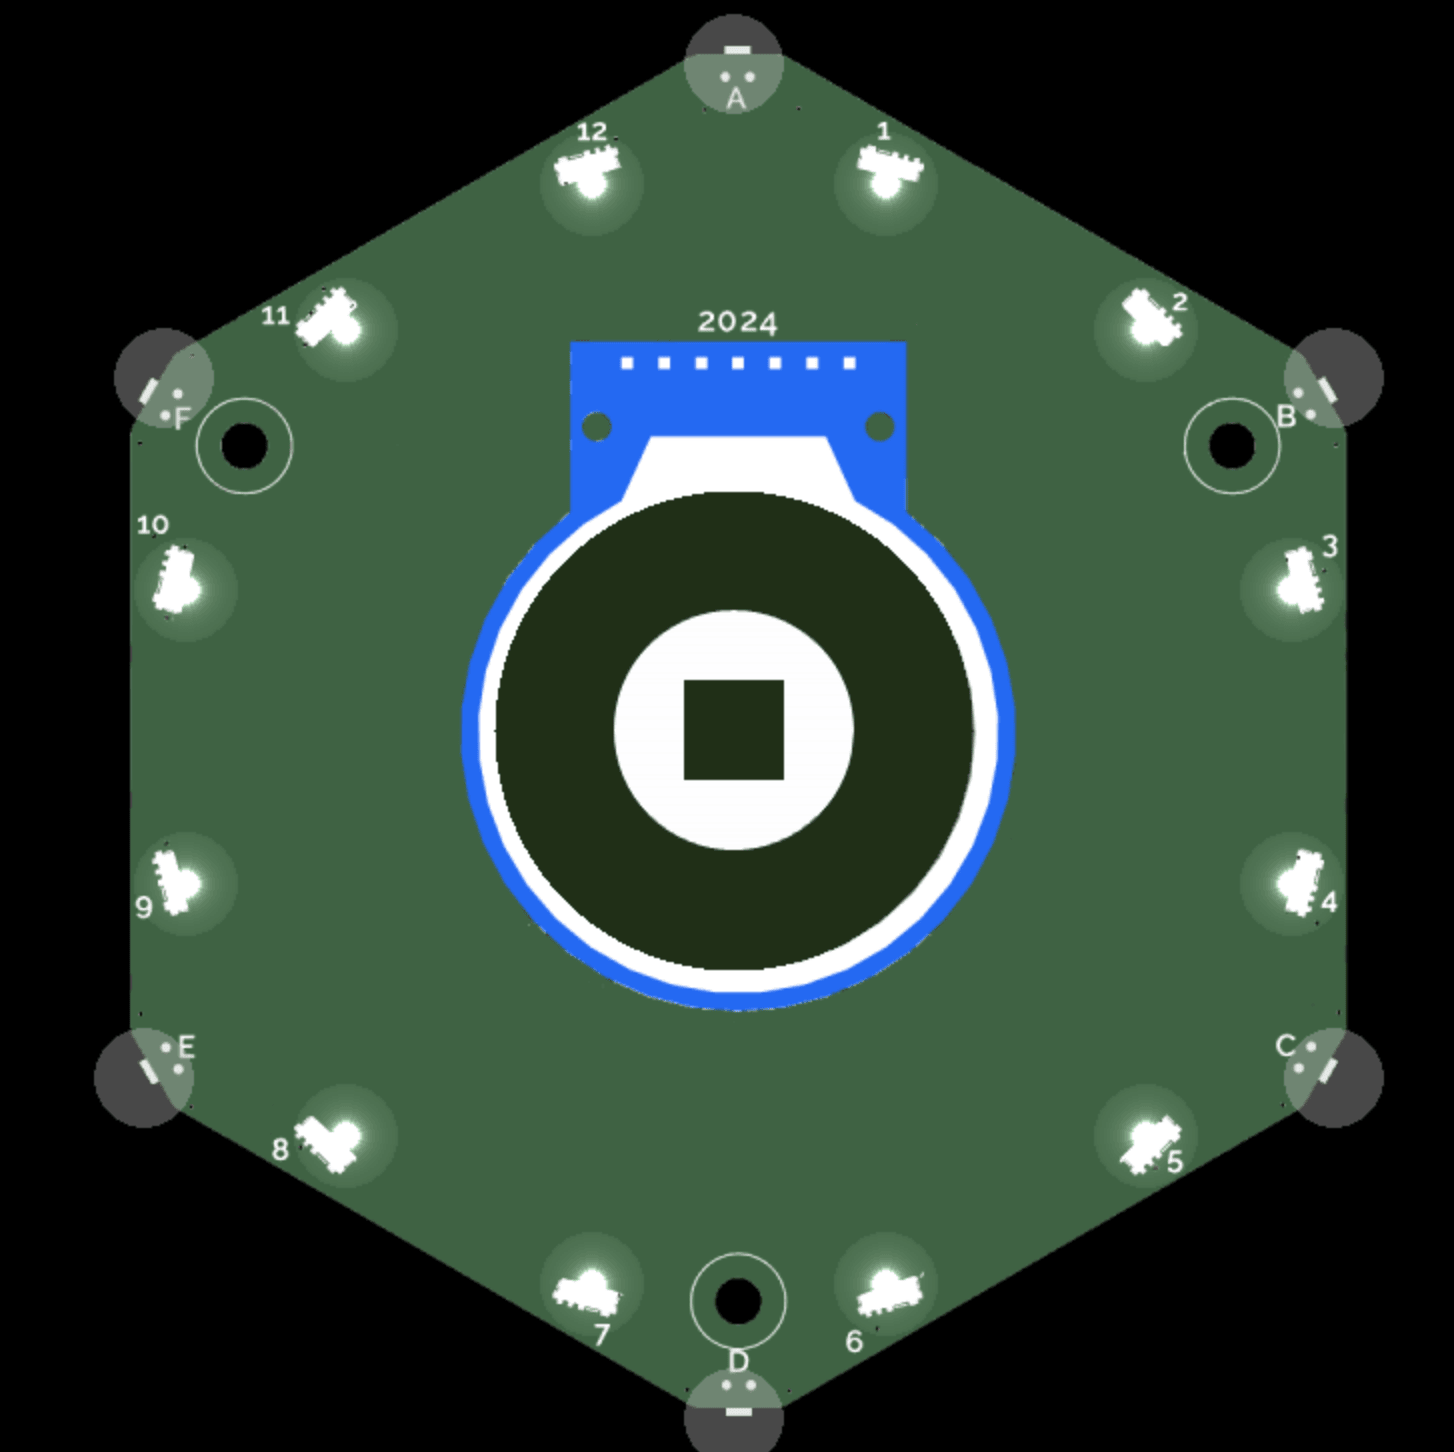
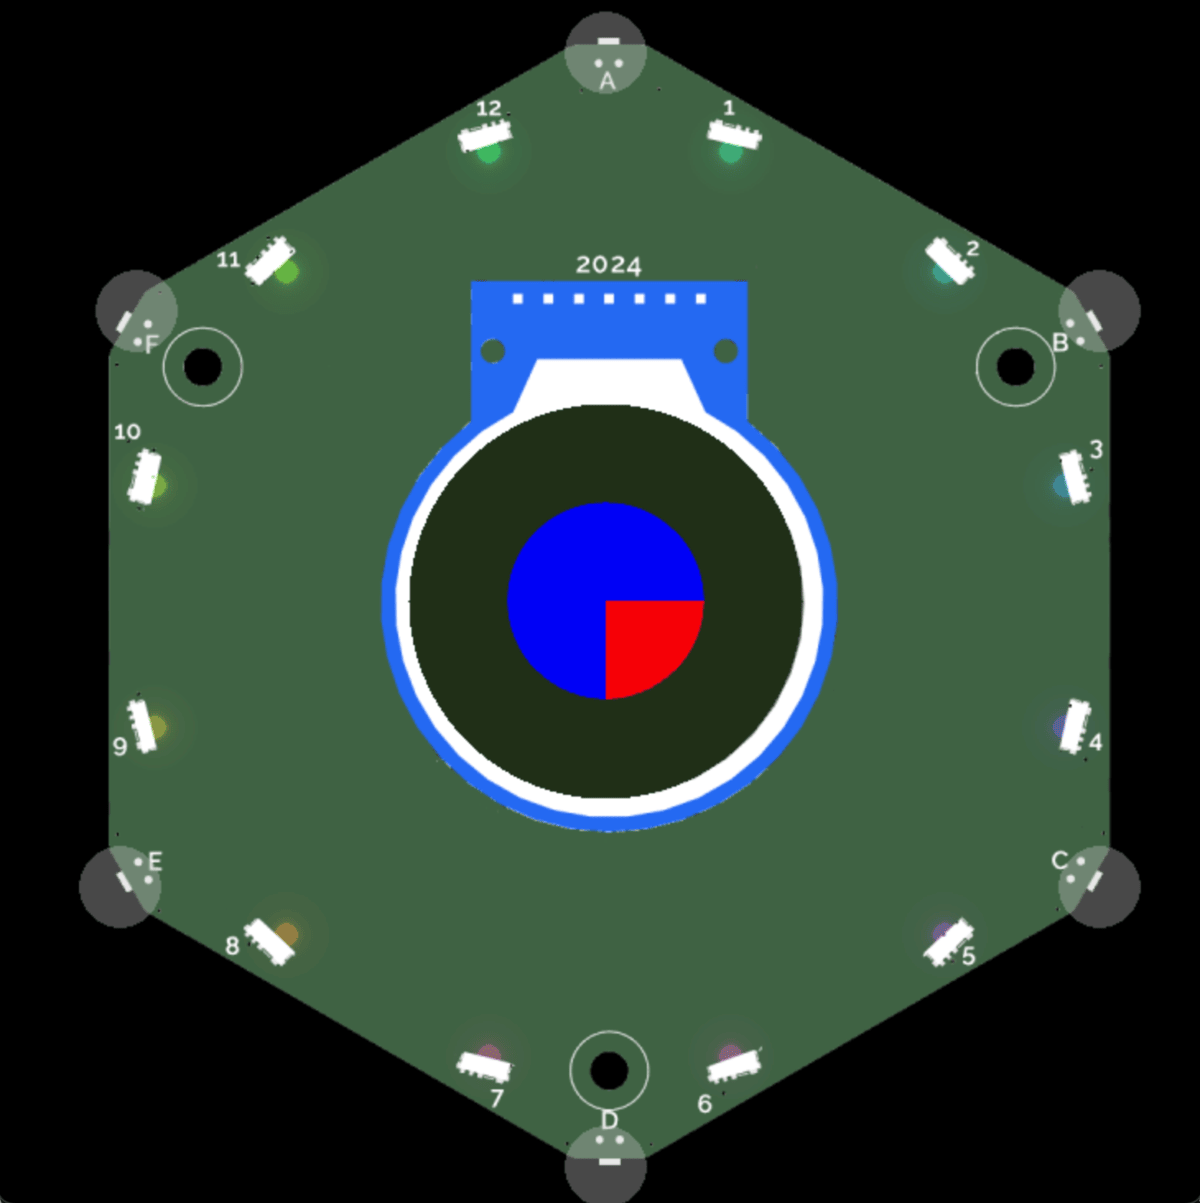
Fix clipping example

diff --git a/docs/tildagon-apps/widgets-and-hardware/ctx.md b/docs/tildagon-apps/widgets-and-hardware/ctx.md
@@ -447,7 +447,7 @@ __app_export__ = ExampleApp
 
 ### Clipping
 
-This example draws a white circle and clips a square out of it.
+This example draws a blue circle and clips a square out of it and colors it red, resulting in a quarter of the circle being red.
 
 ```python
 import app
@@ -468,10 +468,16 @@ class ExampleApp(app.App):
     def draw(self, ctx):
         clear_background(ctx)
         ctx.save()
-        # White circle with a square cutout in the middle
+        # Blue circle
         ctx.arc(0, 0, 60, 0, 2 * math.pi, True)
-        ctx.rectangle(-25, -25, 50, 50).clip
-        ctx.rgb(255, 255, 255).fill()
+        ctx.rgb(0, 0, 255).fill()
+
+        # Define a clipping area for the circle
+        ctx.arc(0, 0, 60, 0, 2 * math.pi, True)
+        ctx.clip()
+        # Add the shape into the clipping area
+        ctx.rectangle(0, 0, 80, 80)
+        ctx.rgb(255, 0, 0).fill()
         ctx.restore()
 
 __app_export__ = ExampleApp

diff --git a/docs/using-the-badge/end-user-manual.md b/docs/using-the-badge/end-user-manual.md
@@ -164,9 +164,9 @@ To power off the badge, select the menu item **Power off**.
 ### Back of the board
 
 - **reboop**: Press and hold the **reboop** button to perform a soft (re)boot.
-- **boop**: Press and hold the **boop** button while connecting to power to load the bootloader (the badge needs to be powered off before connecting to power)
+- **boop**: Press and hold the **boop** button while connecting to power to load the bootloader (the badge needs to be powered off before connecting to power).
 - **bat**: Press the **bat** button to power on your badge.
 
 ### Troubleshooting
 
-For common issues, see [](../using-the-badge/common-problems.md.)
+For common issues, see [Common problems](../using-the-badge/common-problems.md).

diff --git a/docs/using-the-badge/common-problems.md b/docs/using-the-badge/common-problems.md
@@ -10,4 +10,3 @@ Normally, hexpansions are detected immediately on being plugged in, indicated by
 If you press and hold the boop button, then press the edge button to the left of the hexpansion port you've inserted something in to, it will force a detection.
 
 For example, if you plug a hexpansion into the port on the right-hand side of the badge and it doesn't detect, you can press boop and button B at the same time to trigger detection. Once you've finished with this hexpansion, pressing boop again will trigger a removal.
- 

diff --git a/docs/using-the-badge/connect-to-wifi.md b/docs/using-the-badge/connect-to-wifi.md
@@ -37,7 +37,7 @@ settings.set("wifi_password", "changeme")
 ```
 
 If you are on version 1.6.0 you also need to set the `wifi_wpa2ent_username` value.
-If you are connecting to a WPA2-Enterprise network, replace `None` with the username for your WPA2-Enterprise username:
+If you are connecting to a WPA2-Enterprise network, replace `None` with the username for your WPA2-Enterprise username. If you are not using a WPA2-Enterprise network, set the value to `None`:
 
 ```
 settings.set("wifi_wpa2ent_username", None)

diff --git a/docs/hexpansions/creating-hexpansions.md b/docs/hexpansions/creating-hexpansions.md
@@ -130,7 +130,7 @@ The two upper hexpansion slots are right above the two USB connectors. Because o
 
 ## Troubleshooting
 
-For common issues, see [](../using-the-badge/common-problems.md.)
+For common issues, see [](../using-the-badge/common-problems.md).
 
 ## Congratulations
 
